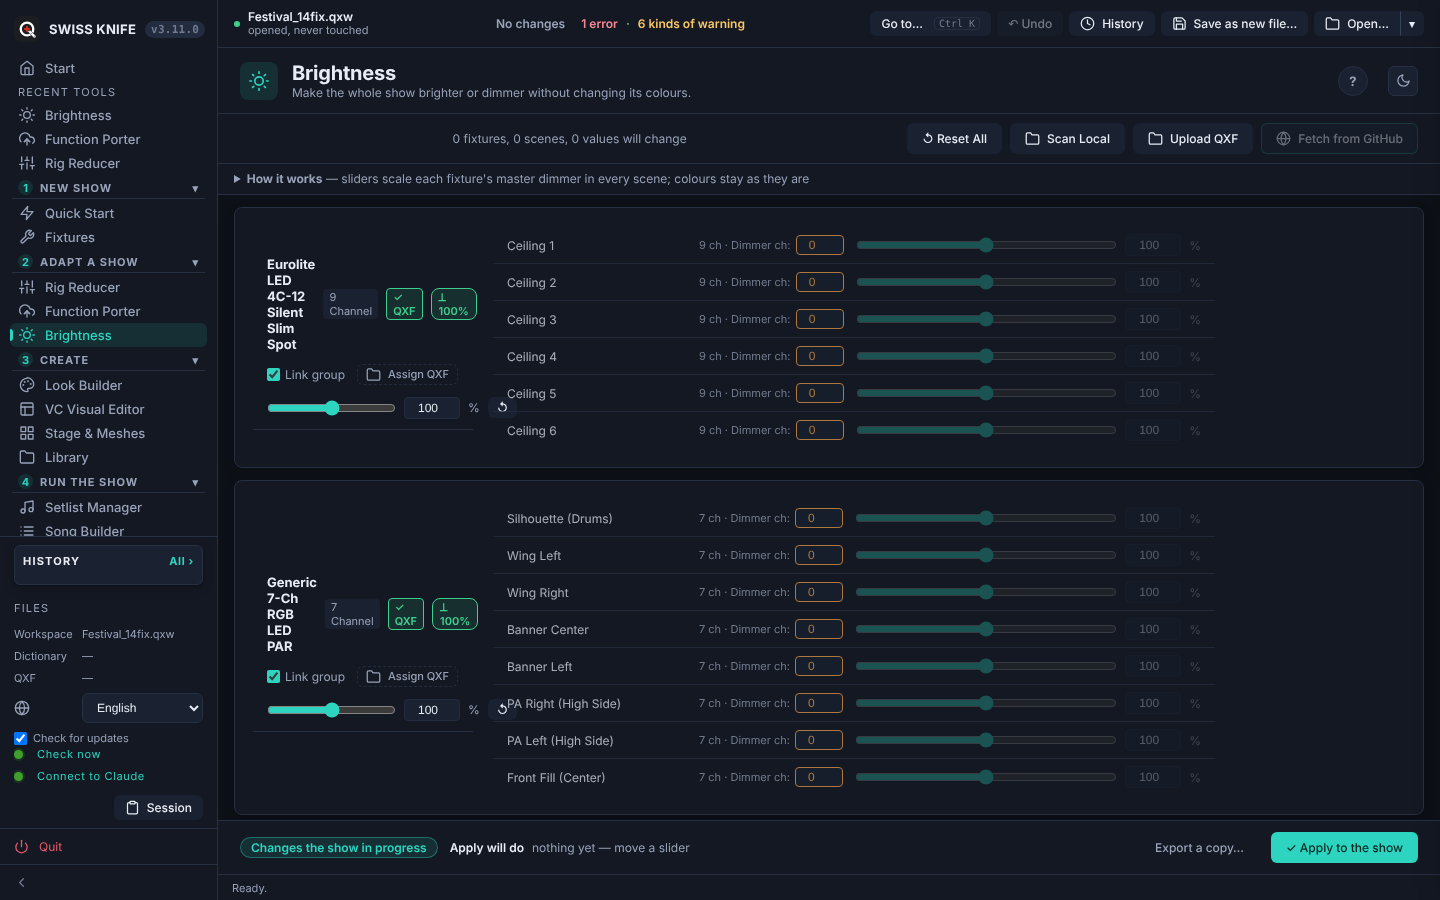
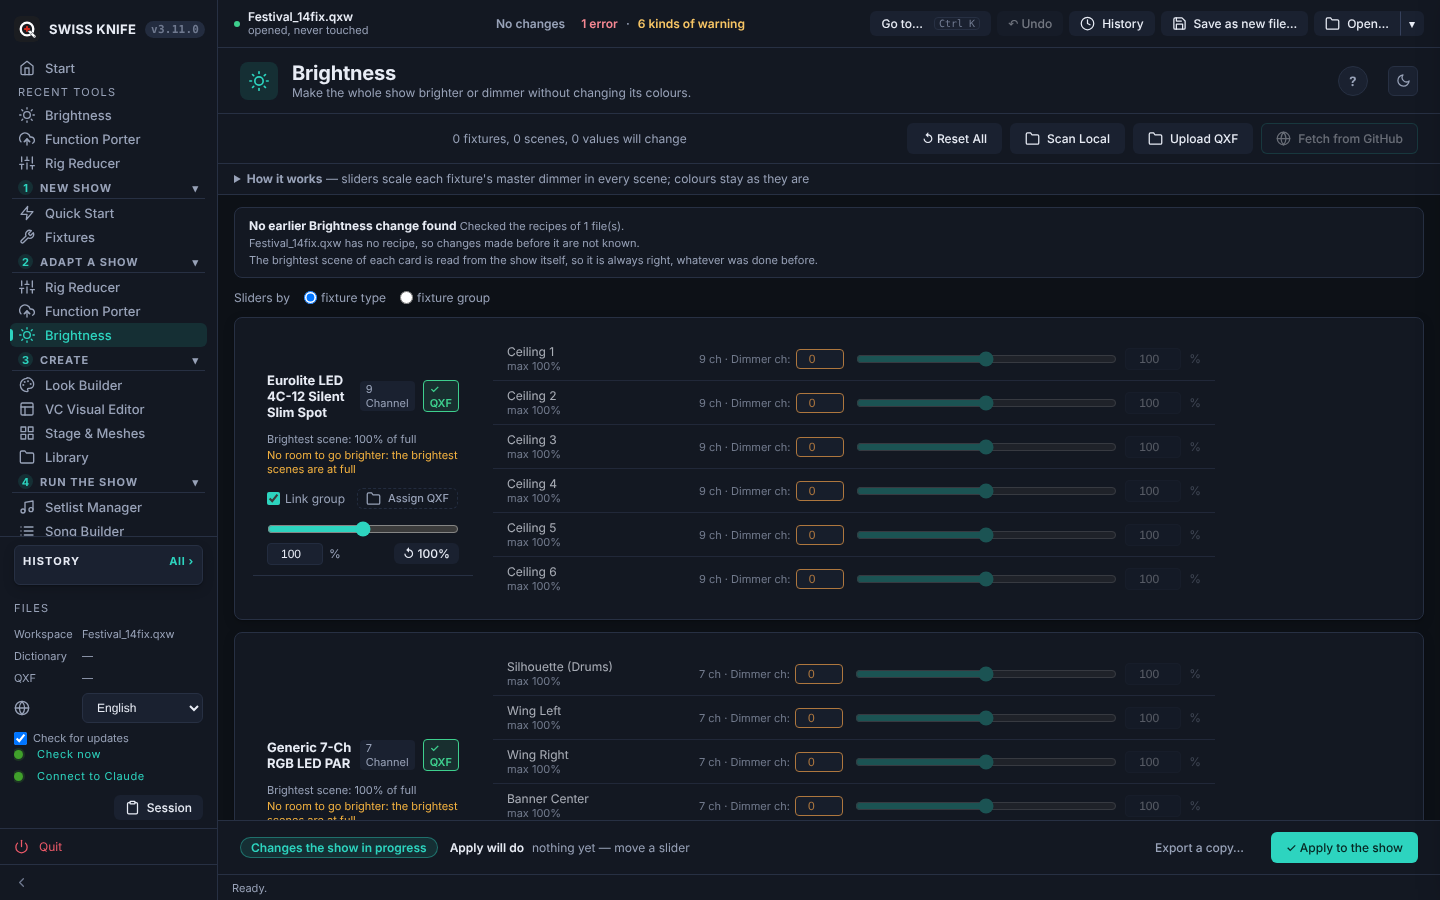
chore: release 3.12.0
Claude-Session: https://claude.ai/code/session_01C97Hwnfzm9jvvbywvzfdxn

diff --git a/core/workspace.py b/core/workspace.py
@@ -30,7 +30,7 @@ QLC_NS_URI = 'http://www.qlcplus.org/Workspace'
 NS = {'q': QLC_NS_URI}
 ET.register_namespace('', QLC_NS_URI)
 
-VERSION = "3.11.0"  # single source of truth — must match CHANGELOG
+VERSION = "3.12.0"  # single source of truth — must match CHANGELOG
 
 # ── Safety limits (same as the tkinter version) ───────────────────────────────
 _MAX_XML_BYTES = 50 * 1024 * 1024   # 50 MB

diff --git a/WORKPLAN.md b/WORKPLAN.md
@@ -37,7 +37,7 @@ This is the living plan for Swiss Knife: where the project stands, what comes ne
 
 ## 2. Next releases
 
-**Release in progress: 3.11.0, notes from a gig** (giopas, 5 November 2026; table below). 3.10.0 was the release before: (chosen by giopas on 23 October 2026, both being enhancements of existing tools). It is described after the 3.9.8 entry below. Everything else waits in the wishlist in section 3; the two designed items (Teleprompter, Colour themes and porting by eye) are written out at the end of that section.
+**Release in progress: 3.12.0, Brightness levels** (giopas, 5 November 2026). 3.11.0, notes from a gig, was released the same morning: (chosen by giopas on 23 October 2026, both being enhancements of existing tools). It is described after the 3.9.8 entry below. Everything else waits in the wishlist in section 3; the two designed items (Teleprompter, Colour themes and porting by eye) are written out at the end of that section.
 
 ### 3.6.1 · Ready for the gig (released 20 October, branch `fix/v3.6.1`)
 
@@ -246,7 +246,18 @@ Decided 20 October (giopas), moved after 3.9.5 on 21 October because the wiki de
 - **Hand checks done by giopas on 23 October.** A ten-part song with music ends with the music; the Show plays as a cue; a 3 s fade in and out on a scene is visible; a chaser copy (3 steps, 2 beats a step at 60 BPM) keeps cycling for the whole 16 s part. Nothing is open.
 - **Left for the wishlist.** A click track made by the tool, a section-split helper, a read-only picture of a Show (see section 3).
 
-### 3.11.0 · Notes from a gig (finished, waiting for the push, branch `feat/v3.11.0`)
+### 3.12.0 · Brightness levels (finished, waiting for the push, branch `feat/v3.12.0`)
+
+**Asked by giopas on 5 November 2026**, right after 3.11.0, on his SangAKlang show: the brightest scene alone does not show a limit chosen long ago (the Ceilings reach 100% in 2 scenes of 100, but nine in ten stop at 90%), and he wants to set the level directly (100, 75, 50) instead of scaling again.
+
+| # | What | Status |
+|---|---|---|
+| 1 | *Usually up to X%* per card and per fixture: the level nine lit scenes in ten stay at or below (`usual_top` in the baseline). | done |
+| 2 | *Brightest scene to __%* per card and for every card: **Scale** (slider so the brightest lands there), **Limit** (`caps`: only values above come down; applied after the scale, kept in the recipe, listed in the history as *limit X%*), **✕ limit**. *After your change* line on each card. | done |
+
+Built and tested (1,680 tests), seven languages, wiki Brightness page, screenshot 06. Note: while finishing, two files copied back in the wrong order brought older copies of `brightness.js` and `style.css` into the folder; found by a check, fixed before any commit. 3.11.0 as released was checked and is right.
+
+### 3.11.0 · Notes from a gig (released 5 November 2026, tag v3.11.0)
 
 **Asked by giopas on 5 November 2026**, after preparing a new show file from an old one. Fifteen points, in his order. Status, 5 November: all fifteen built, with tests (1,667 pass), the seven languages, the wiki pages (Setlist Manager, Stage and Meshes, Cabling, Tablet on stage, Connect Claude, Community Library), the Claude tools page and the CHANGELOG. Checked on screen with the Festival test show. **Release, 5 November (giopas asked for it the same morning):** version 3.11.0, CHANGELOG section *Notes from a gig*, release notes in `docs/release-notes/RELEASE_NOTES_v3.11.0.md`, every picture retaken (`tools/shots.py all`), `tools/xss_probe.py` clean, a plain-language pass on the new texts and their seven translations. Left: merge, tag and push (section 8).
 

diff --git a/CHANGELOG.md b/CHANGELOG.md
@@ -9,6 +9,17 @@ This project follows [Keep a Changelog](https://keepachangelog.com/en/1.0.0/) co
 
 ---
 
+## [3.12.0] — 2026-11-05 — Brightness levels
+
+### Added — Brightness levels (3.12.0)
+
+- **Where the scenes usually stop.** Each card and each fixture now says where nine lit scenes in ten stop (*Usually up to 90%*), next to the brightest scene. A level that was chosen long ago shows up even when a few scenes go higher.
+- **Brightest scene to a level.** Type a level, for example 75%, on a card or for every card at once. **Scale** moves the slider so the brightest scene lands there and keeps the differences between scenes. **Limit** brings down only the scenes above the level and leaves the dimmer ones as they are. The card says where the brightest scene ends up.
+- A limit is kept in the recipe and shown in the history box of later versions (*limit 90%*).
+- The wiki and all seven languages are updated.
+
+---
+
 ## [3.11.0] — 2026-11-05 — Notes from a gig
 
 ### Added — notes from preparing a gig (3.11.0)

diff --git a/docs/release-notes/RELEASE_NOTES_v3.12.0.md b/docs/release-notes/RELEASE_NOTES_v3.12.0.md
@@ -1,0 +1,10 @@
+### Added — Brightness levels (3.12.0)
+
+- **Where the scenes usually stop.** Each card and each fixture now says where nine lit scenes in ten stop (*Usually up to 90%*), next to the brightest scene. A level that was chosen long ago shows up even when a few scenes go higher.
+- **Brightest scene to a level.** Type a level, for example 75%, on a card or for every card at once. **Scale** moves the slider so the brightest scene lands there and keeps the differences between scenes. **Limit** brings down only the scenes above the level and leaves the dimmer ones as they are. The card says where the brightest scene ends up.
+- A limit is kept in the recipe and shown in the history box of later versions (*limit 90%*).
+- The wiki and all seven languages are updated.
+
+---
+
+Downloads for macOS, Windows and Linux, the Claude Desktop file (.mcpb) and the checksums are below. The whole history is in the [CHANGELOG](https://github.com/giopas/qlc-plus-swiss-knife-tool-script/blob/main/CHANGELOG.md).

diff --git a/README.md b/README.md
@@ -1,4 +1,4 @@
-# QLC+ Swiss Knife v3.11.0
+# QLC+ Swiss Knife v3.12.0
 
 <p align="center"><img src="static/logo/icon-512.png" alt="QLC+ Swiss Knife logo" width="140"></p>
 
